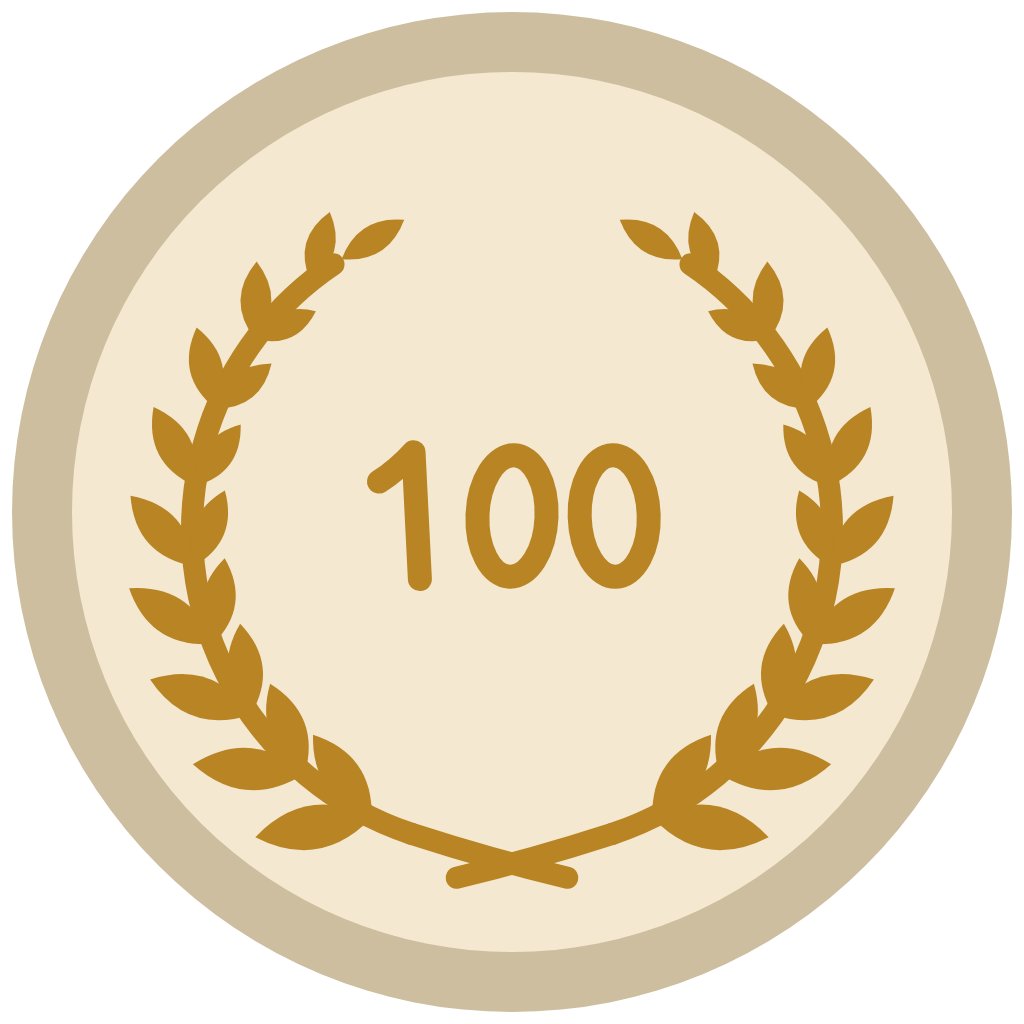
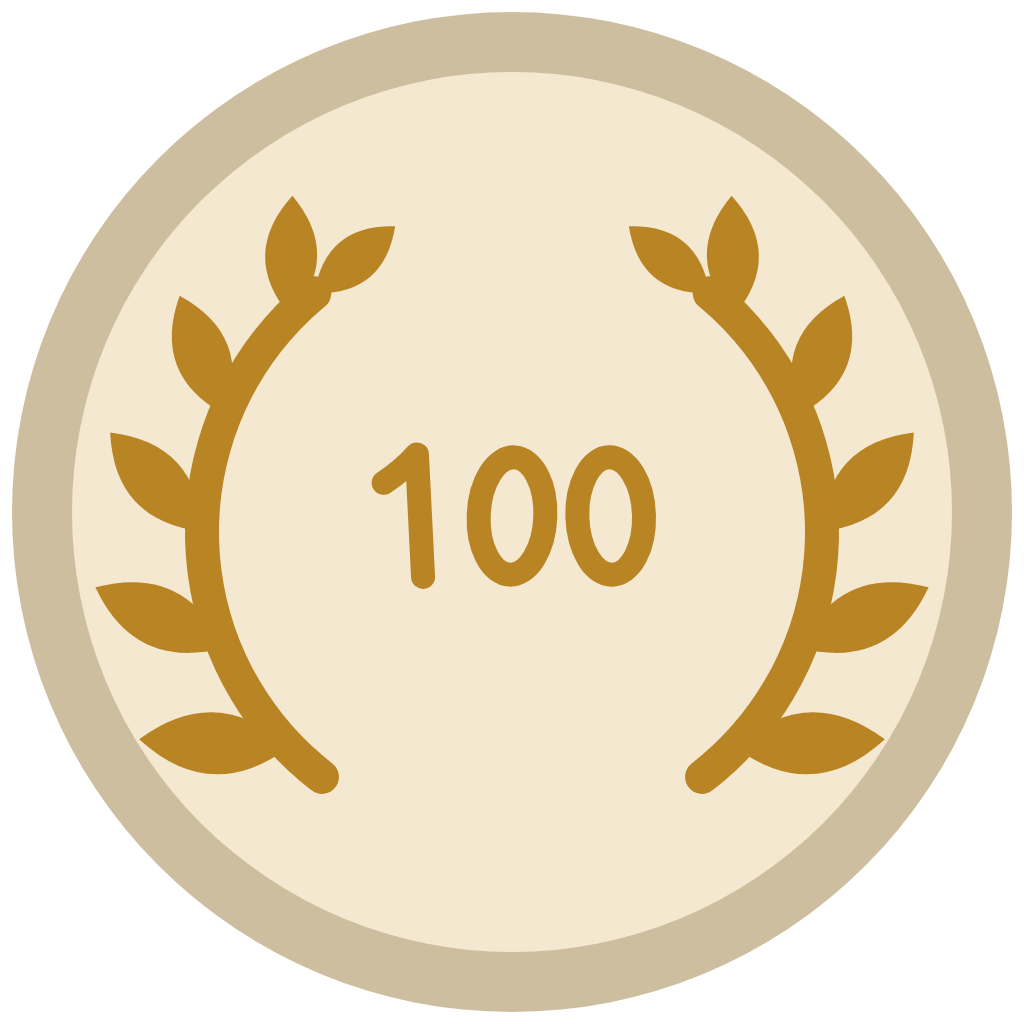
Wins badges: a bolder laurel in the tokens' manner, branches apart at the foot

diff --git a/tools/badgeart.html b/tools/badgeart.html
@@ -30,27 +30,17 @@ function leaf(ctx, x, y, ang, len, wid, col) {
   ctx.save(); ctx.translate(x, y); ctx.rotate(ang); ctx.beginPath(); ctx.moveTo(0, 0);
   ctx.quadraticCurveTo(len * .5, -wid, len, 0); ctx.quadraticCurveTo(len * .5, wid, 0, 0); ctx.fillStyle = css(col); ctx.fill(); ctx.restore();
 }
-function wins(ctx, n) {      // a laurel wreath: two branches rising from a crossing at the foot, paired leaves growing smaller to the tips
-  const col = [184, 132, 36], cy = C + 18, rr = R * .64;
-  ctx.lineCap = 'round'; ctx.strokeStyle = css(col); ctx.fillStyle = css(col);
+function wins(ctx, n) {      // a laurel wreath in the tokens' manner: five big leaves a side on a thick stem, the two branches apart at the foot
+  const col = [184, 132, 36], cy = C + 20, rr = R * .62;
+  ctx.lineCap = 'round'; ctx.lineJoin = 'round'; ctx.strokeStyle = css(col); ctx.fillStyle = css(col);
   for (const sgn of [-1, 1]) {
-    const a0 = Math.PI / 2 - sgn * .32, a1 = Math.PI / 2 - sgn * 2.55;      // from just past the foot round to near the top
-    ctx.lineWidth = 22; ctx.beginPath(); ctx.arc(C, cy, rr, a0, a1, sgn > 0); ctx.stroke();
-    const K = 8;
-    for (let k = 0; k <= K; k++) {
-      const u = k / K, a = a0 + (a1 - a0) * (.06 + .9 * u), x = C + Math.cos(a) * rr, y = cy + Math.sin(a) * rr;
-      const along = a - sgn * Math.PI / 2, len = 118 - 46 * u, wid = 44 - 15 * u;      // the stem's direction of growth
-      leaf(ctx, x, y, along + sgn * .62, len, wid, col);      // outer leaf
-      if (k < K) leaf(ctx, x, y, along - sgn * .5, len * .86, wid * .86, col);      // inner leaf, a little smaller
-    }
-    const ta = a1 - sgn * .03, tx = C + Math.cos(ta) * rr, ty = cy + Math.sin(ta) * rr;
-    leaf(ctx, tx, ty, ta - sgn * Math.PI / 2, 74, 28, col);      // the tip
+    const a0 = Math.PI / 2 - sgn * .66, a1 = Math.PI / 2 - sgn * 2.45;      // the foot of each branch stops well short of the middle
+    ctx.lineWidth = 34; ctx.beginPath(); ctx.arc(C, cy, rr, a0, a1, sgn > 0); ctx.stroke();
+    for (let k = 0; k < 5; k++) { const u = k / 4, a = a0 + (a1 - a0) * (.08 + .86 * u), x = C + Math.cos(a) * rr, y = cy + Math.sin(a) * rr, along = a - sgn * Math.PI / 2;
+      leaf(ctx, x, y, along + sgn * .75, 150 - 30 * u, 62 - 10 * u, col); }
+    const ta = a1, tx = C + Math.cos(ta) * rr, ty = cy + Math.sin(ta) * rr; leaf(ctx, tx, ty, ta - sgn * Math.PI / 2, 105, 46, col);
   }
-  ctx.lineWidth = 22; ctx.beginPath();      // each stem carries on past the foot and crosses the other
-  const bx = rr * Math.sin(.32), by = cy + rr * Math.cos(.32);
-  ctx.moveTo(C - bx, by); ctx.quadraticCurveTo(C - bx * .2, by + 26, C + bx * .55, by + 44);
-  ctx.moveTo(C + bx, by); ctx.quadraticCurveTo(C + bx * .2, by + 26, C - bx * .55, by + 44); ctx.stroke();
-  num(ctx, n, C + 4, 330, col, R * .58);
+  num(ctx, n, C + 4, 330, col, R * .56);
 }
 function streak(ctx, n) {      // a flame in the middle of the token, the number inside it
   const col = [206, 40, 62], fh = 640, fw = 360, cx = C, by = C + fh * .42, ty = C - fh * .58;
